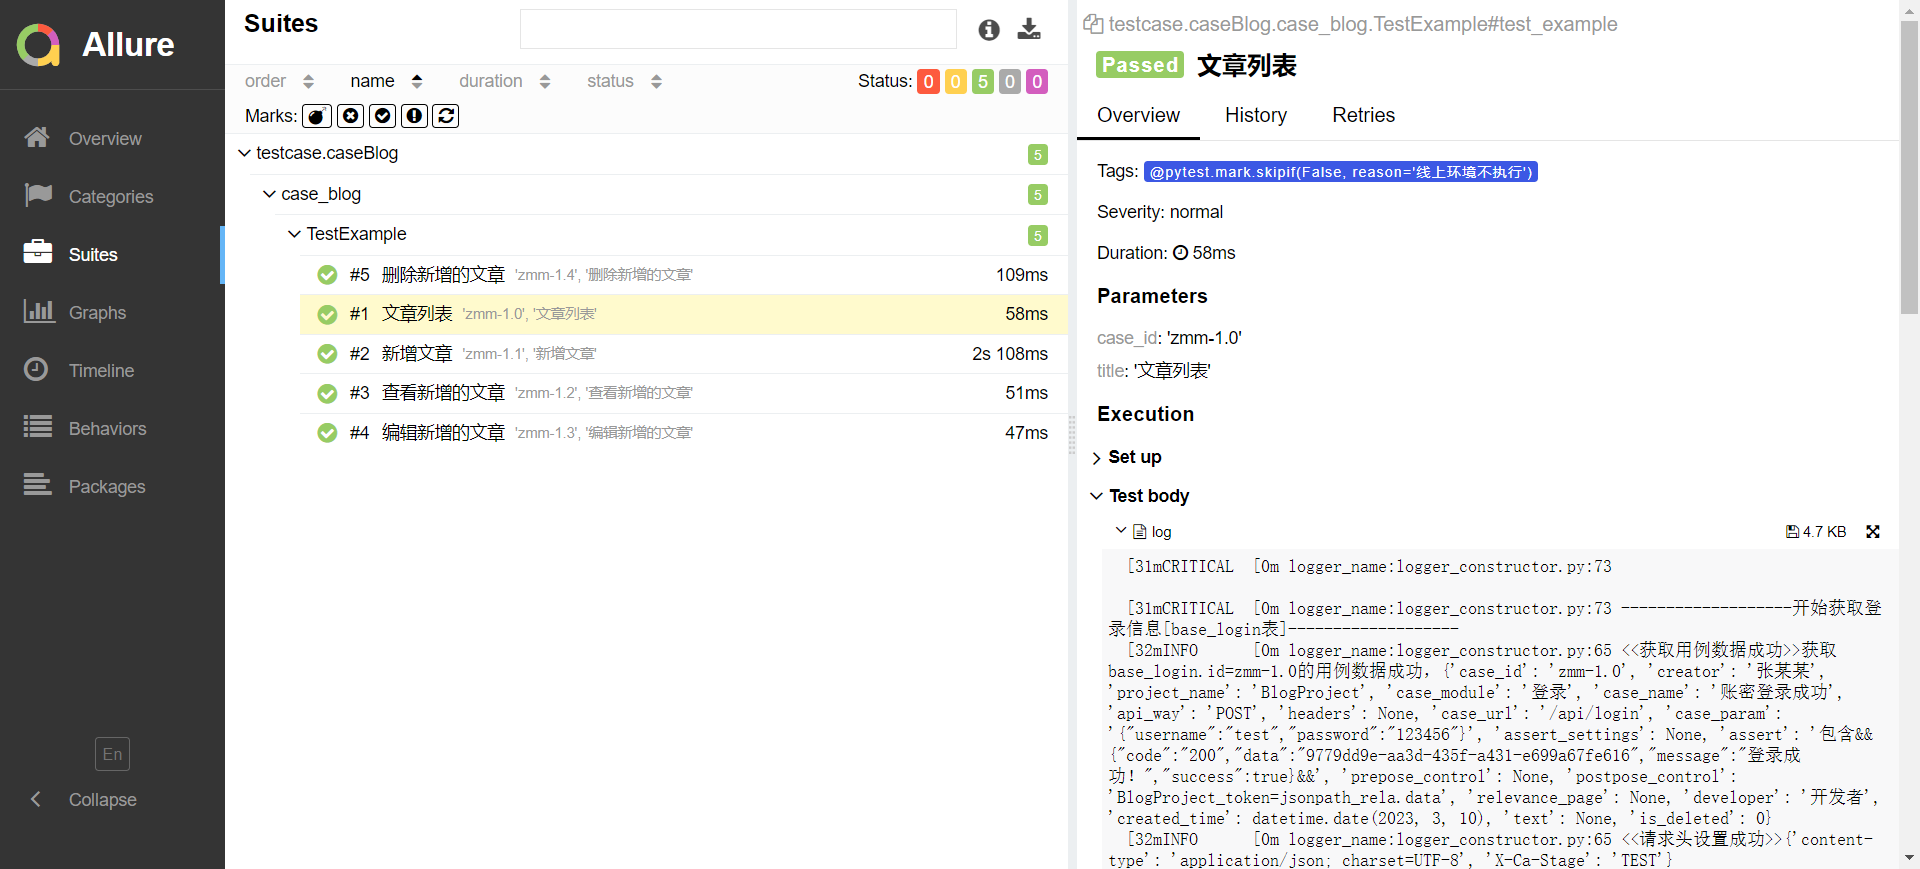
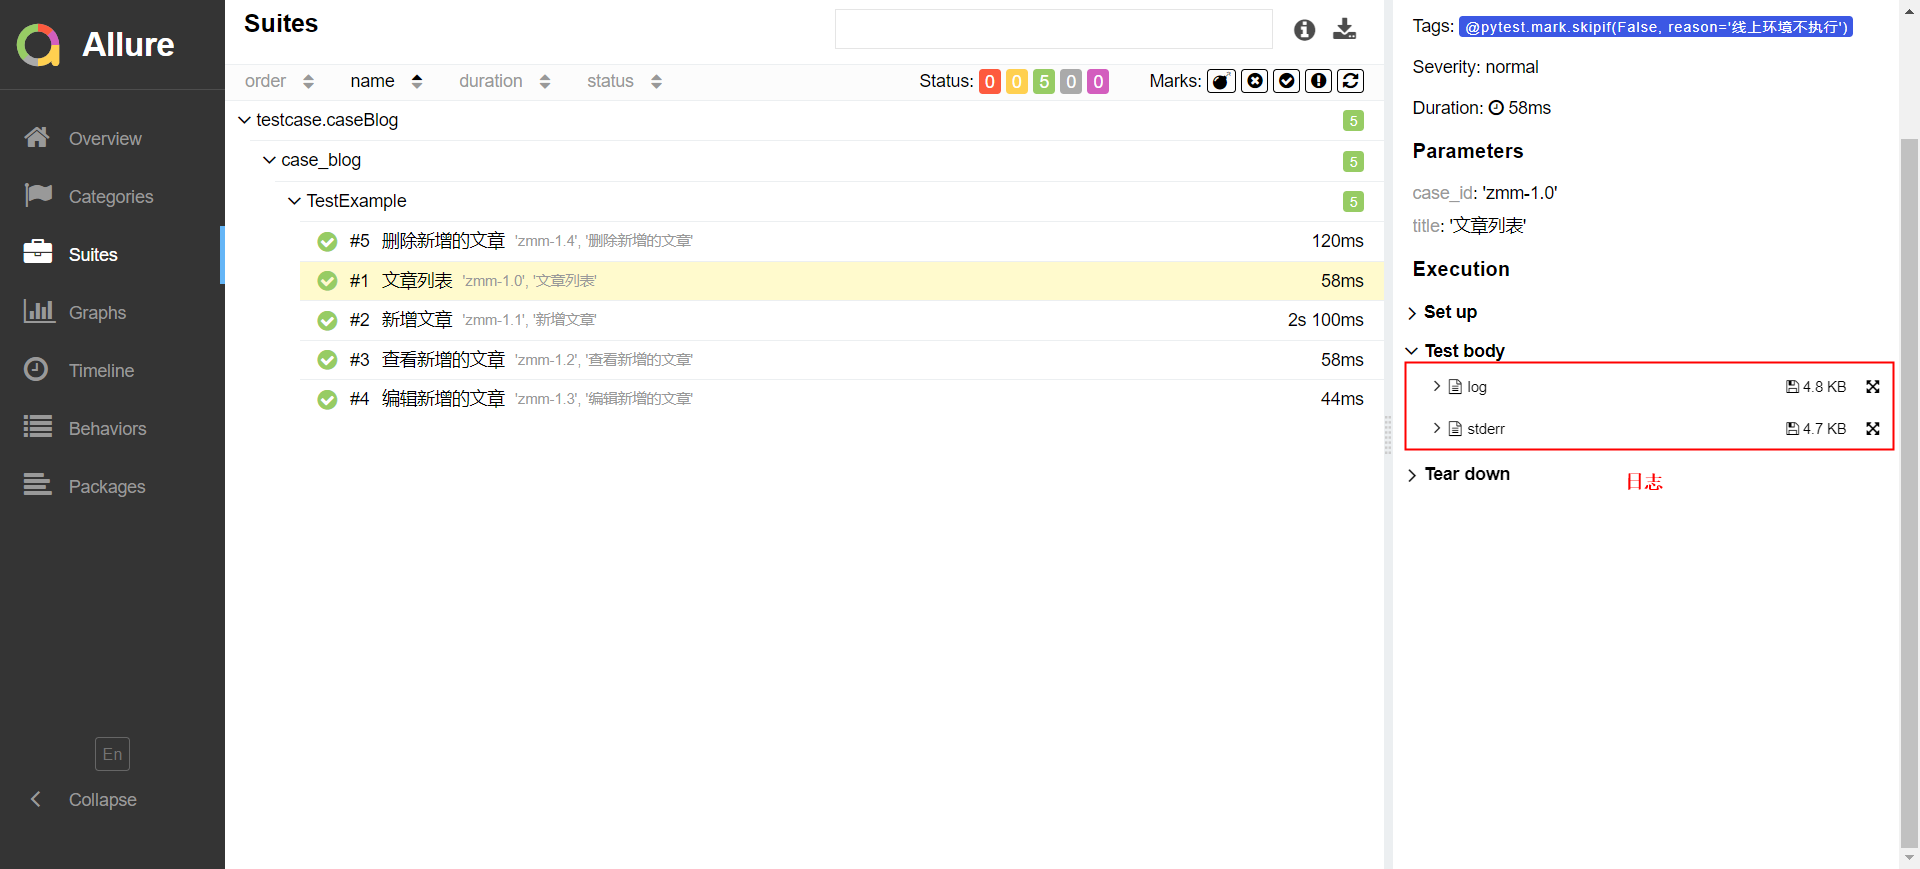
第一版

Changed region(s): [[0.125, 0.0, 1.0, 1.0], [0.5312, 0.4661, 0.625, 0.5282]]

diff --git a/app/core/generator.py b/app/core/generator.py
@@ -17,7 +17,7 @@ class Genetator(object):
     # type = 'Wx'
     # way = 'token'
     @staticmethod
-    def global_generator(table_name, case_id):
+    def global_generator(table_name, case_id, logFlag=False):
         """
         主调度入口：获取用例数据->生成请求头->生成接口url->生成传参->处理前置->发起请求->处理后置->断言
         """
@@ -33,6 +33,11 @@ class Genetator(object):
             response = HttpGenerator(case_data['api_way'], url, headers, data).__call__()
             Genetator.post_genetator(case_data, response)
             Genetator.assert_genetator(response, case_data)
+            # 优化控制台日志：执行登录用例和引用历史用例时，不执行下列日志
+            if logFlag is True:
+                pass
+            else:
+                Log().info('\n\n')
 
     @staticmethod
     def case_reader(table_name, case_id):

diff --git a/app/core/normal_generator.py b/app/core/normal_generator.py
@@ -155,9 +155,9 @@ class NormalGenarator(object):
                 # zyc-1.1#zyc-1.3处理成zyc-1.1,zyc-1.2,zyc-1.3
                 case_ids = MysqlConstructor.deal_with_caseid(param_end)
                 for case_id in case_ids.split(','):
-                    Genetator.global_generator( table_name=table_name, case_id=case_id)
+                    Genetator.global_generator(table_name=table_name, case_id=case_id, logFlag=True)
             else:
-                Genetator.global_generator(table_name=table_name, case_id=param_end)
+                Genetator.global_generator(table_name=table_name, case_id=param_end, logFlag=True)
         except Exception as e:
             Log().error(f'<<调用用例接口>>[{values}]写法有误，请检查格式及语句是否正确：{e}')
         finally:

diff --git a/app/core/decorator.py b/app/core/decorator.py
@@ -71,7 +71,7 @@ def login_decorator(func):
             from app.core.generator import Genetator
             case_ids = MysqlConstructor.parameterization_data('base_login', 'all')
             for case_id in case_ids:
-                Genetator.global_generator(table_name='base_login', case_id=case_id[0])
+                Genetator.global_generator(table_name='base_login', case_id=case_id[0], logFlag=True)
             Log().critical(f'-----------------------获取登录信息结束-----------------------\n')
         func(self)
     return wrapper

diff --git a/conftest.py b/conftest.py
@@ -21,7 +21,7 @@ def login_first() -> None:
         from app.core.generator import Genetator
         case_ids = MysqlConstructor.parameterization_data('base_login', 'all')
         for case_id in case_ids:
-            Genetator.global_generator(table_name='base_login', case_id=case_id[0])
+            Genetator.global_generator(table_name='base_login', case_id=case_id[0], logFlag=True)
         Log().critical(f'---------------------获取登录信息结束----------------------')
 
 def pytest_terminal_summary(terminalreporter):
